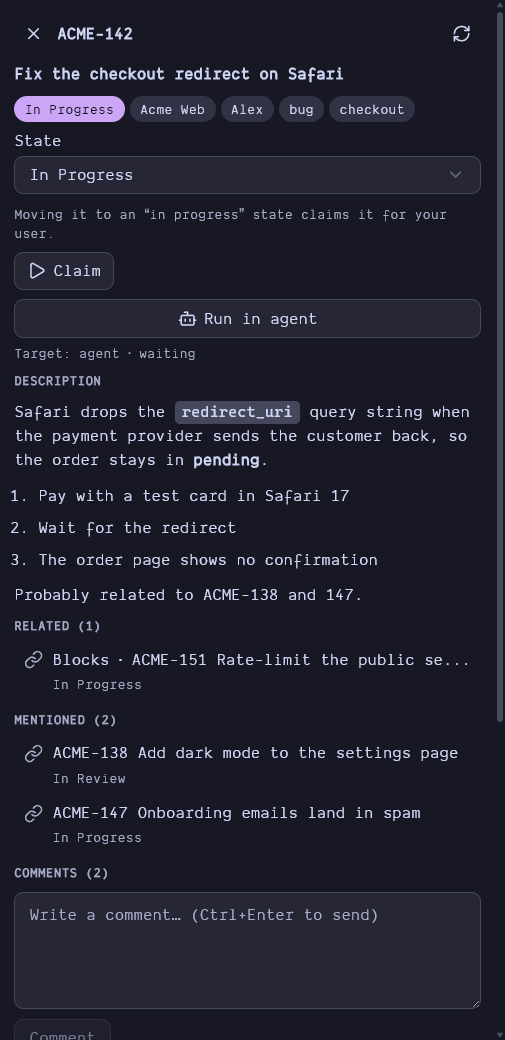
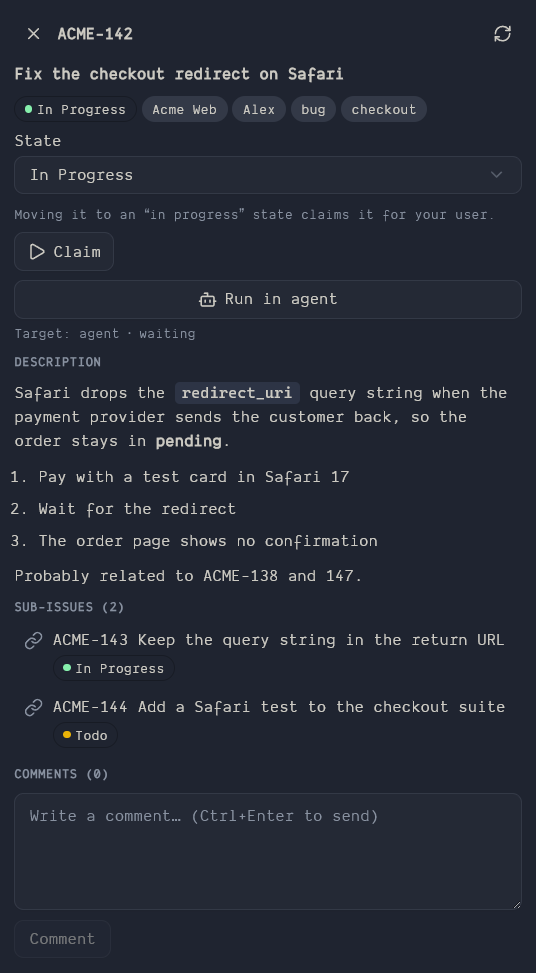
Release 0.6.1: store cover and screenshots

diff --git a/src/panel.check.ts b/src/panel.check.ts
@@ -4,17 +4,21 @@
 import { defineCheck } from 'orca/testing'
 import type { IssueDetail, IssueRow } from './protocol'
 
-const row = (n: number, title: string, project: string, projectId: string, state: string, assignee: string | null, agentWorking: string | null = null): IssueRow => ({
-  id: `i-${n}`, identifier: `ACME-${n}`, title, state, stateTone: state === 'In Review' ? 'neutral' : 'success', stateType: 'started', project, projectId,
+const tones = { Backlog: 'danger', Todo: 'warning', 'In Progress': 'success', 'In Review': 'neutral', Done: 'accent' } as const
+const types = { Backlog: 'backlog', Todo: 'unstarted', 'In Progress': 'started', 'In Review': 'started', Done: 'completed' } as const
+type StateName = keyof typeof tones
+
+const row = (n: number, title: string, project: string, projectId: string, state: StateName, assignee: string | null, agentWorking: string | null = null): IssueRow => ({
+  id: `i-${n}`, identifier: `ACME-${n}`, title, state, stateTone: tones[state], stateType: types[state], project, projectId,
   assignee, priority: 'medium', agentWorking, labels: []
 })
 
 const rows = [
   row(142, 'Fix the checkout redirect on Safari', 'Acme Web', 'p-web', 'In Progress', 'Alex'),
   row(138, 'Add dark mode to the settings page', 'Acme Web', 'p-web', 'In Review', 'Sam', 'agent-1'),
-  row(151, 'Rate-limit the public search endpoint', 'Platform API', 'p-api', 'In Progress', null),
-  row(147, 'Onboarding emails land in spam', 'Acme Web', 'p-web', 'In Progress', 'Alex'),
-  row(133, 'Crash when opening a deleted invoice', 'Acme Mobile', 'p-mobile', 'In Review', 'Sam'),
+  row(151, 'Rate-limit the public search endpoint', 'Platform API', 'p-api', 'Todo', null),
+  row(147, 'Onboarding emails land in spam', 'Acme Web', 'p-web', 'Backlog', 'Alex'),
+  row(133, 'Crash when opening a deleted invoice', 'Acme Mobile', 'p-mobile', 'Done', 'Sam'),
   row(129, 'Migrate the image uploads to the new bucket', 'Platform API', 'p-api', 'In Progress', null)
 ]
 
@@ -27,7 +31,7 @@ const detail: IssueDetail = {
   ],
   stateId: 's-progress',
   labels: ['bug', 'checkout'],
-  relations: [{ type: 'blocks', issueId: 'i-151', identifier: 'ACME-151', title: 'Rate-limit the public search endpoint', state: 'In Progress', stateTone: 'success' }],
+  relations: [{ type: 'blocks', issueId: 'i-151', identifier: 'ACME-151', title: 'Rate-limit the public search endpoint', state: 'Todo', stateTone: 'neutral' }],
   description:
     'Safari drops the `redirect_uri` query string when the payment provider sends the customer back, so the order stays in **pending**.\n\n' +
     '1. Pay with a test card in Safari 17\n2. Wait for the redirect\n3. The order page shows no confirmation\n\nProbably related to ACME-138 and 147.',
@@ -36,6 +40,9 @@ const detail: IssueDetail = {
     { id: 'c2', author: 'Sam', body: 'The provider docs say the redirect keeps its query string, so this looks like our own router.', createdAt: '2026-11-09T11:40:00Z' }
   ]
 }
+
+// Short enough to be captured whole: very tall panels break Orca's screenshot of a scenario.
+const compact: IssueDetail = { ...detail, relations: [], comments: [] }
 
 const common = {
   'auth.status': { connected: true, url: 'https://app.hilbana.com/mcp', protection: 'os-keyring' as const },
@@ -54,18 +61,30 @@ const common = {
 
 export default defineCheck({
   connect: { requests: { ...common, 'auth.status': { connected: false, url: 'https://app.hilbana.com/mcp', protection: 'os-keyring' as const } } },
-  list: { requests: common },
+  list: { requests: common, persisted: { plugin: { scope: 'all' } } },
   // The branch names ACME-142, so following the Orca workspace opens that issue.
   detail: {
     requests: {
       ...common,
       'workspace.resolve': { key: 'acme-web', workspaceId: null, projectId: 'p-web', source: 'branch' as const, issue: { id: 'i-142', identifier: 'ACME-142' } },
+      'issue.get': compact,
+      'issues.resolve': []
+    },
+    persisted: { plugin: { scope: 'all' } },
+    events: [{ event: 'workspace.changed', payload: { context: { branch: 'acme-142-checkout-redirect', displayName: 'acme-web', terminals: [] } } }]
+  },
+  // The same issue with everything on it: related, mentioned and comments (tall: not for screenshots).
+  full: {
+    requests: {
+      ...common,
+      'workspace.resolve': { key: 'acme-web', workspaceId: null, projectId: 'p-web', source: 'branch' as const, issue: { id: 'i-142', identifier: 'ACME-142' } },
       'issue.get': detail,
       'issues.resolve': [
-        { id: 'i-138', identifier: 'ACME-138', title: 'Add dark mode to the settings page', state: 'In Review', stateTone: 'neutral' },
-        { id: 'i-147', identifier: 'ACME-147', title: 'Onboarding emails land in spam', state: 'In Progress', stateTone: 'success' }
+        { id: 'i-138', identifier: 'ACME-138', title: 'Add dark mode to the settings page', state: 'In Review', stateTone: 'neutral' as const },
+        { id: 'i-147', identifier: 'ACME-147', title: 'Onboarding emails land in spam', state: 'Backlog', stateTone: 'danger' as const }
       ]
     },
-    events: [{ event: 'workspace.changed', payload: { context: { branch: 'acme-142-checkout-redirect', displayName: 'acme-web', terminals: [] } } }]
+    persisted: { plugin: { scope: 'all' } },
+    events: [{ event: 'workspace.changed', payload: { context: { branch: 'acme-142-checkout-redirect', displayName: 'acme-web-full', terminals: [] } } }]
   }
 })

diff --git a/README.md b/README.md
@@ -63,7 +63,7 @@ Requested capabilities: `settings:own`, `secrets:own`, `storage:own`, `workspace
 
 ## Install
 
-In Orca: **Settings → Plugins → Add plugin → From Git URL**, and enter `https://github.com/hilbana/orca-plugin`. Requires Orca ≥ 1.4.250 and a Hilbana API key. The Free plan includes one agent key, and this plugin only needs a key, so you can use the one your agent already uses. To pin a release, add its tag: `https://github.com/hilbana/orca-plugin#v0.6.0`. Releases are listed in [CHANGELOG.md](CHANGELOG.md).
+In Orca: **Settings → Plugins → Add plugin → From Git URL**, and enter `https://github.com/hilbana/orca-plugin`. Requires Orca ≥ 1.4.250 and a Hilbana API key. The Free plan includes one agent key, and this plugin only needs a key, so you can use the one your agent already uses. To pin a release, add its tag: `https://github.com/hilbana/orca-plugin#v0.6.1`. Releases are listed in [CHANGELOG.md](CHANGELOG.md).
 
 ## Development
 

diff --git a/CHANGELOG.md b/CHANGELOG.md
@@ -2,6 +2,10 @@
 
 All notable changes to this plugin. Versions are tagged `vX.Y.Z`; the tag must match `version` in `orca-plugin.json`.
 
+## 0.6.1 - 2026-11-09
+
+- Store listing: a cover and four screenshots for the Orca plugin directory, and updated README screenshots that show the state colours and sub-issues. No change to the plugin itself.
+
 ## 0.6.0 - 2026-11-09
 
 - **Live issue**: the open issue refreshes itself every 10 seconds, only while the panel is visible, without touching a half-written comment. New setting *Refresh the open issue (seconds)*; 0 turns it off.
